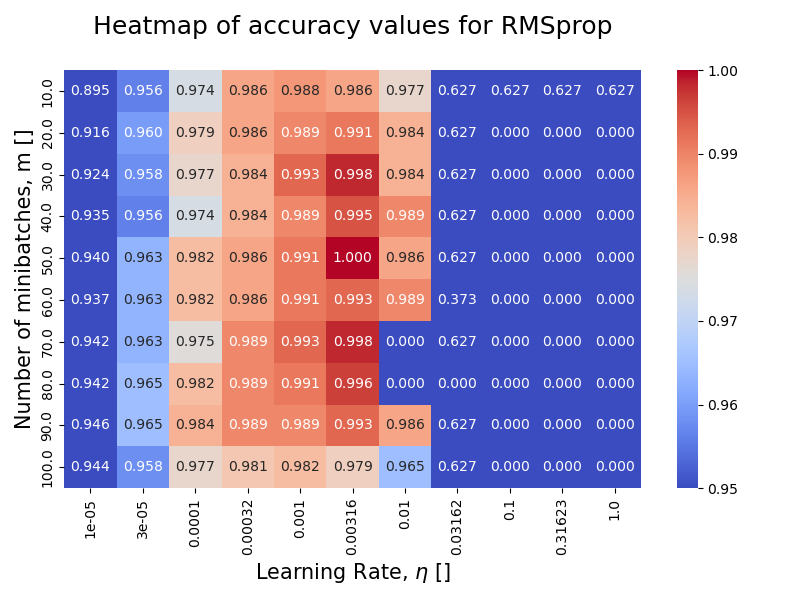
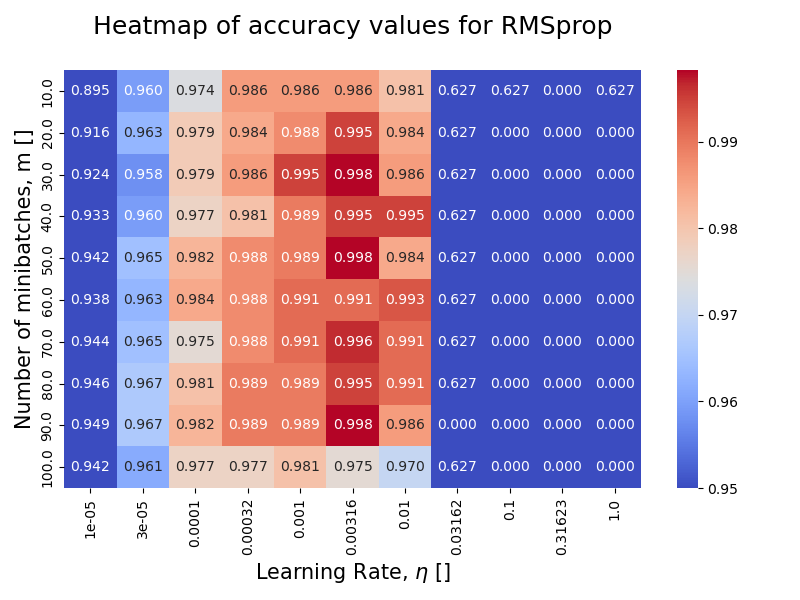
did a thing, added many more plots

diff --git a/task_d_OP.py b/task_d_OP.py
@@ -1118,7 +1118,7 @@ if __name__ == "__main__":
                 MLP_config_test.reset_weights()
                 MLP_config_test.set_classification()
                 #picked some values that we knew were good from analysis that happens later in the code
-                accuracy_config_test = MLP_config_test.fit(X, y, n_batches=80, n_epochs=100, eta=0.0032, lmb=0, delta_mom=0, method='RMSprop', scale_bool = True, tol = 1e-17)
+                accuracy_config_test = MLP_config_test.fit(X, y, n_batches=32, n_epochs=100, eta=0.001, lmb=0, delta_mom=0, method='RMSprop', scale_bool = True, tol = 1e-17)
                 accuracy_list_config_test[i][j] = accuracy_config_test[0]
             except RuntimeWarning:
                 continue
@@ -1134,22 +1134,35 @@ if __name__ == "__main__":
     plt.show()
     
     
-    #According to this plot, we pick 100 nodes in hidden layer with LRELU activation
+    #Used m=32 and eta=0.001
+    #According to this plot, we pick 100 nodes in hidden layer with RELU activation
     
     
     
     #use RMSprop for training
-    MLP_RMSprop = Network([30,100,1], LRELU, sigmoid, CostLogReg)
-    MLP_RMSprop.reset_weights()
-    MLP_RMSprop.set_classification()
+    MLP_RMSprop1 = Network([30,100,1], RELU, sigmoid, CostLogReg)
+    MLP_RMSprop1.reset_weights()
+    MLP_RMSprop1.set_classification()
     
-    MLP_AdaGrad = Network([30,100,1], LRELU, sigmoid, CostLogReg)
-    MLP_AdaGrad.reset_weights()
-    MLP_AdaGrad.set_classification()
+    MLP_AdaGrad1 = Network([30,100,1], RELU, sigmoid, CostLogReg)
+    MLP_AdaGrad1.reset_weights()
+    MLP_AdaGrad1.set_classification()
     
-    MLP_ADAM = Network([30,100,1], LRELU, sigmoid, CostLogReg)
-    MLP_ADAM.reset_weights()
-    MLP_ADAM.set_classification()
+    MLP_ADAM1 = Network([30,100,1], RELU, sigmoid, CostLogReg)
+    MLP_ADAM1.reset_weights()
+    MLP_ADAM1.set_classification()
+    
+    MLP_RMSprop2 = Network([30,100,1], LRELU, sigmoid, CostLogReg)
+    MLP_RMSprop2.reset_weights()
+    MLP_RMSprop2.set_classification()
+    
+    MLP_AdaGrad2 = Network([30,100,1], LRELU, sigmoid, CostLogReg)
+    MLP_AdaGrad2.reset_weights()
+    MLP_AdaGrad2.set_classification()
+    
+    MLP_ADAM2 = Network([30,100,1], LRELU, sigmoid, CostLogReg)
+    MLP_ADAM2.reset_weights()
+    MLP_ADAM2.set_classification()
     
     m_list = np.linspace(10, 100, 10)
     #eta_vals = np.logspace(-3, -2, 11)
@@ -1157,32 +1170,56 @@ if __name__ == "__main__":
     #eta_vals = np.logspace(eta_vals, 3)
     eta_vals = np.round(eta_vals, 5)
     
-    accuracy_list_RMSprop = np.zeros( (len(eta_vals), len(m_list)) )
-    accuracy_list_AdaGrad = np.zeros( (len(eta_vals), len(m_list)) )
-    accuracy_list_ADAM = np.zeros( (len(eta_vals), len(m_list)) )
+    accuracy_list_RMSprop1 = np.zeros( (len(eta_vals), len(m_list)) )
+    accuracy_list_AdaGrad1 = np.zeros( (len(eta_vals), len(m_list)) )
+    accuracy_list_ADAM1    = np.zeros( (len(eta_vals), len(m_list)) )
+    accuracy_list_RMSprop2 = np.zeros( (len(eta_vals), len(m_list)) )
+    accuracy_list_AdaGrad2 = np.zeros( (len(eta_vals), len(m_list)) )
+    accuracy_list_ADAM2    = np.zeros( (len(eta_vals), len(m_list)) )
+    
     for i, eta in tqdm(enumerate(eta_vals)):
         print(f"eta number {i+1} of {len(eta_vals)}")
         for j, m in enumerate(m_list):
             try:
-                accuracy_RMSprop = MLP_RMSprop.fit(X, y, n_batches = m, n_epochs = 100, eta = eta, lmb = 0, delta_mom = 0, method = 'RMSprop', scale_bool = True, tol = 1e-17)
-                accuracy_AdaGrad = MLP_AdaGrad.fit(X, y, n_batches = m, n_epochs = 100, eta = eta, lmb = 0, delta_mom = 0, method = 'AdaGrad', scale_bool = True, tol = 1e-17)
-                accuracy_ADAM = MLP_ADAM.fit(X, y, n_batches = m, n_epochs = 100, eta = eta, lmb = 0, delta_mom = 0, method = 'ADAM', scale_bool = True, tol = 1e-17)
-                accuracy_list_RMSprop[i][j] = accuracy_RMSprop[0]
-                accuracy_list_AdaGrad[i][j] = accuracy_AdaGrad[0]
-                accuracy_list_ADAM[i][j] = accuracy_ADAM[0]
-                MLP_RMSprop.reset_weights()
-                MLP_AdaGrad.reset_weights()
-                MLP_ADAM.reset_weights()
+                accuracy_RMSprop1 = MLP_RMSprop1.fit(X, y, n_batches = m, n_epochs = 100, eta = eta, lmb = 0, delta_mom = 0, method = 'RMSprop', scale_bool = True, tol = 1e-17)
+                accuracy_AdaGrad1 = MLP_AdaGrad1.fit(X, y, n_batches = m, n_epochs = 100, eta = eta, lmb = 0, delta_mom = 0, method = 'Adagrad', scale_bool = True, tol = 1e-17)
+                accuracy_ADAM1    = MLP_ADAM1.fit(X, y,    n_batches = m, n_epochs = 100, eta = eta, lmb = 0, delta_mom = 0, method = 'Adam',    scale_bool = True, tol = 1e-17)
+                accuracy_list_RMSprop1[i][j] = accuracy_RMSprop1[0]
+                accuracy_list_AdaGrad1[i][j] = accuracy_AdaGrad1[0]
+                accuracy_list_ADAM1[i][j]    = accuracy_ADAM1[0]
+                MLP_RMSprop1.reset_weights()
+                MLP_AdaGrad1.reset_weights()
+                MLP_ADAM1.reset_weights()
+                
+                accuracy_RMSprop2 = MLP_RMSprop2.fit(X, y, n_batches = m, n_epochs = 100, eta = eta, lmb = 0, delta_mom = 0, method = 'RMSprop', scale_bool = True, tol = 1e-17)
+                accuracy_AdaGrad2 = MLP_AdaGrad2.fit(X, y, n_batches = m, n_epochs = 100, eta = eta, lmb = 0, delta_mom = 0, method = 'Adagrad', scale_bool = True, tol = 1e-17)
+                accuracy_ADAM2    = MLP_ADAM2.fit(X, y,    n_batches = m, n_epochs = 100, eta = eta, lmb = 0, delta_mom = 0, method = 'Adam',    scale_bool = True, tol = 1e-17)
+                accuracy_list_RMSprop2[i][j] = accuracy_RMSprop2[0]
+                accuracy_list_AdaGrad2[i][j] = accuracy_AdaGrad2[0]
+                accuracy_list_ADAM2[i][j]    = accuracy_ADAM2[0]
+                MLP_RMSprop2.reset_weights()
+                MLP_AdaGrad2.reset_weights()
+                MLP_ADAM2.reset_weights()
+                
             except RuntimeWarning:
-                MLP_RMSprop.reset_weights()
-                MLP_AdaGrad.reset_weights()
-                MLP_ADAM.reset_weights()
+                MLP_RMSprop1.reset_weights()
+                MLP_AdaGrad1.reset_weights()
+                MLP_ADAM1.reset_weights()
+                
+                MLP_RMSprop2.reset_weights()
+                MLP_AdaGrad2.reset_weights()
+                MLP_ADAM2.reset_weights()
+                
                 continue;  
     print('\n')
     
-    iRMSprop_max, jRMSprop_max = plot_heatmap(accuracy_list_RMSprop.T, m_list, eta_vals, title='RMSprop', vmin=0.95, saveplot=True)
-    iAdaGrad_max, jAdaGrad_max = plot_heatmap(accuracy_list_AdaGrad.T, m_list, eta_vals, title='AdaGrad', vmin=0.95, saveplot=True)
-    iADAM_max, jADAM_max = plot_heatmap(accuracy_list_ADAM.T, m_list, eta_vals, title='ADAM', vmin=0.95, saveplot=True)
+    iRMSprop1_max, jRMSprop1_max = plot_heatmap(accuracy_list_RMSprop1.T, m_list, eta_vals, title='RMSprop (ReLU)', vmin=0.95, saveplot=True)
+    iAdaGrad1_max, jAdaGrad1_max = plot_heatmap(accuracy_list_AdaGrad1.T, m_list, eta_vals, title='AdaGrad (ReLU)', vmin=0.95, saveplot=True)
+    iADAM1_max, jADAM1_max       = plot_heatmap(accuracy_list_ADAM1.T,    m_list, eta_vals, title='ADAM (ReLU)',    vmin=0.95, saveplot=True)
+    
+    iRMSprop2_max, jRMSprop2_max = plot_heatmap(accuracy_list_RMSprop2.T, m_list, eta_vals, title='RMSprop (LReLU)', vmin=0.95, saveplot=True)
+    iAdaGrad2_max, jAdaGrad2_max = plot_heatmap(accuracy_list_AdaGrad2.T, m_list, eta_vals, title='AdaGrad (LReLU)', vmin=0.95, saveplot=True)
+    iADAM2_max, jADAM2_max       = plot_heatmap(accuracy_list_ADAM2.T,    m_list, eta_vals, title='ADAM (LReLU)',    vmin=0.95, saveplot=True)
     
     #By eye: best values: m=30, eta=0.0032 (24.10.2024)
     #By eye: best values: m=80, eta=0.0032 (25.10.2024, after changes to stochastic part)
@@ -1190,11 +1227,11 @@ if __name__ == "__main__":
     
     
     
-    MLP = Network([30,100,1], LRELU, sigmoid, CostLogReg)
+    MLP = Network([30,100,1], RELU, sigmoid, CostLogReg)
     MLP.reset_weights()
     MLP.set_classification()
     
-    final_accuracy = MLP.fit(X, y, n_batches=80, n_epochs=100, eta=0.0032, lmb=0, delta_mom=0, method = 'RMSprop', scale_bool = True, tol = 1e-17)
+    final_accuracy = MLP.fit(X, y, n_batches=10, n_epochs=100, eta=0.03162, lmb=0, delta_mom=0, method = 'Adam', scale_bool = True, tol = 1e-17)
     
     #The true positive, false positive etc. values from .fit() are the number of cases divided by
     #total cases. Therefore TP+TN+FP+FN=1
@@ -1204,7 +1241,7 @@ if __name__ == "__main__":
     print("Lower right: True=1, Predicted=0.   Lower left: True=1, Predicted=1")
     print('\n')
     
-    print("Neural Network: m=80, n_batches=100, eta=0.0032, lambda=0")
+    print("Neural Network: ADAM, m=10, n_epochs=100, eta=0.03162, lambda=0")
     print(f"Accuracy: {final_accuracy[0]:.3f}, TP: {final_accuracy[1]:.3f}, TN: {final_accuracy[2]:.3f}, FP: {final_accuracy[3]:.3f}, FN: {final_accuracy[4]:.3f}")
     print('\n')
     
